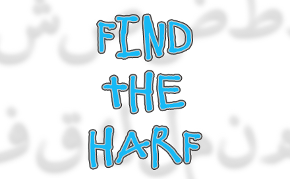
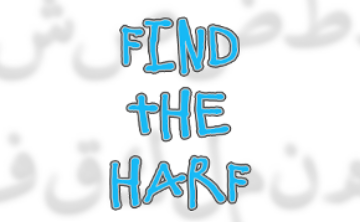
Game images scale on the home page! #1

Changed region(s): [[0.3103, 0.0559, 0.6828, 0.3631], [0.2793, 0.6983, 0.7138, 0.9497], [0.3414, 0.3911, 0.6517, 0.6425]]

diff --git a/src/builder.rb b/src/builder.rb
@@ -79,7 +79,7 @@ class Builder
 
       game_image = "#{IMAGES_DIR}/#{filename}"
       raise "Can't find image #{g['screenshot']} for #{g['name']} in #{IMAGES_DIR}" unless File.exist?(game_image)
-      html = "<a href='#{game_name_to_token(g['name'])}.html'><img src='#{game_image.sub('data/', '')}' /></a>"
+      html = "<a href='#{game_name_to_token(g['name'])}.html'><img class='img-responsive' src='#{game_image.sub('data/', '')}' /></a>"
 
       platform_html = ""
       g['platforms'].each do |p|

diff --git a/README.md b/README.md
@@ -4,7 +4,7 @@
 
 - Add the vitals to `data/games.yaml`
 - Create the right-sized images in `images`. Right now, these are:
-  - `<game name>-500x260.png`
-  - `<game name>-300x256.png`
+  - `<game name>-featured.png` (450x278)
+  - `<game name>-normal.png` (290x179)
 - run `rake`.
 - Verify results locally. If it works, push.
